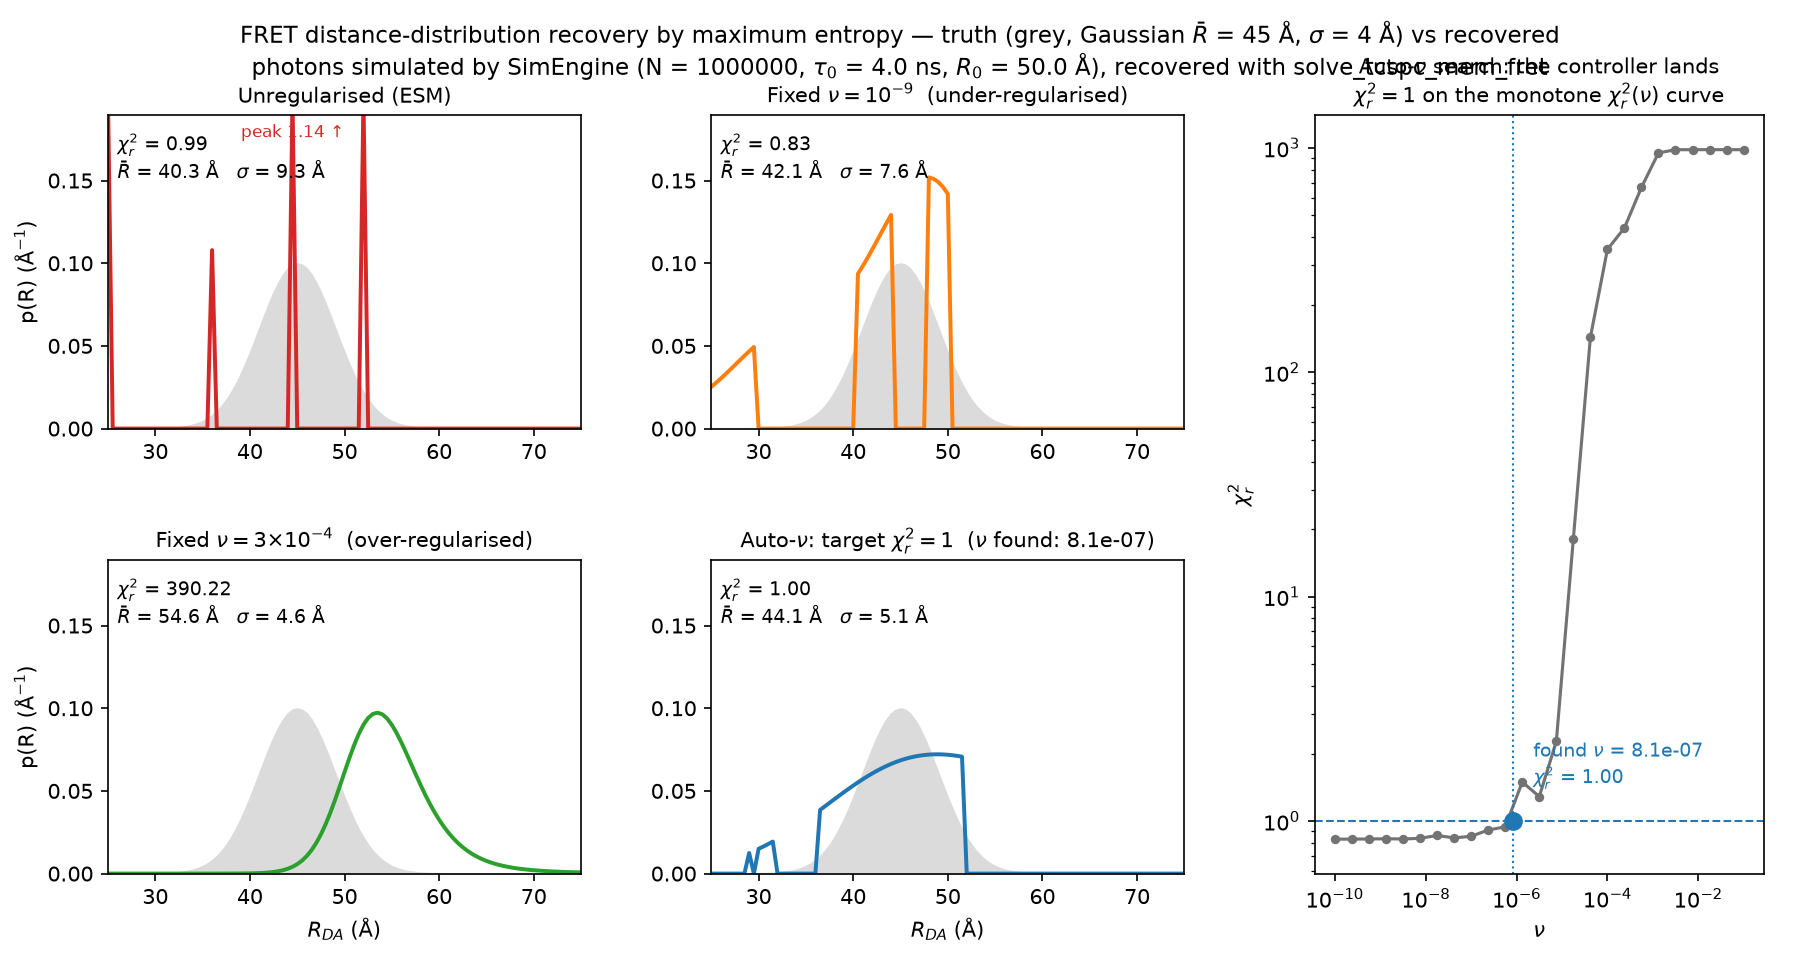
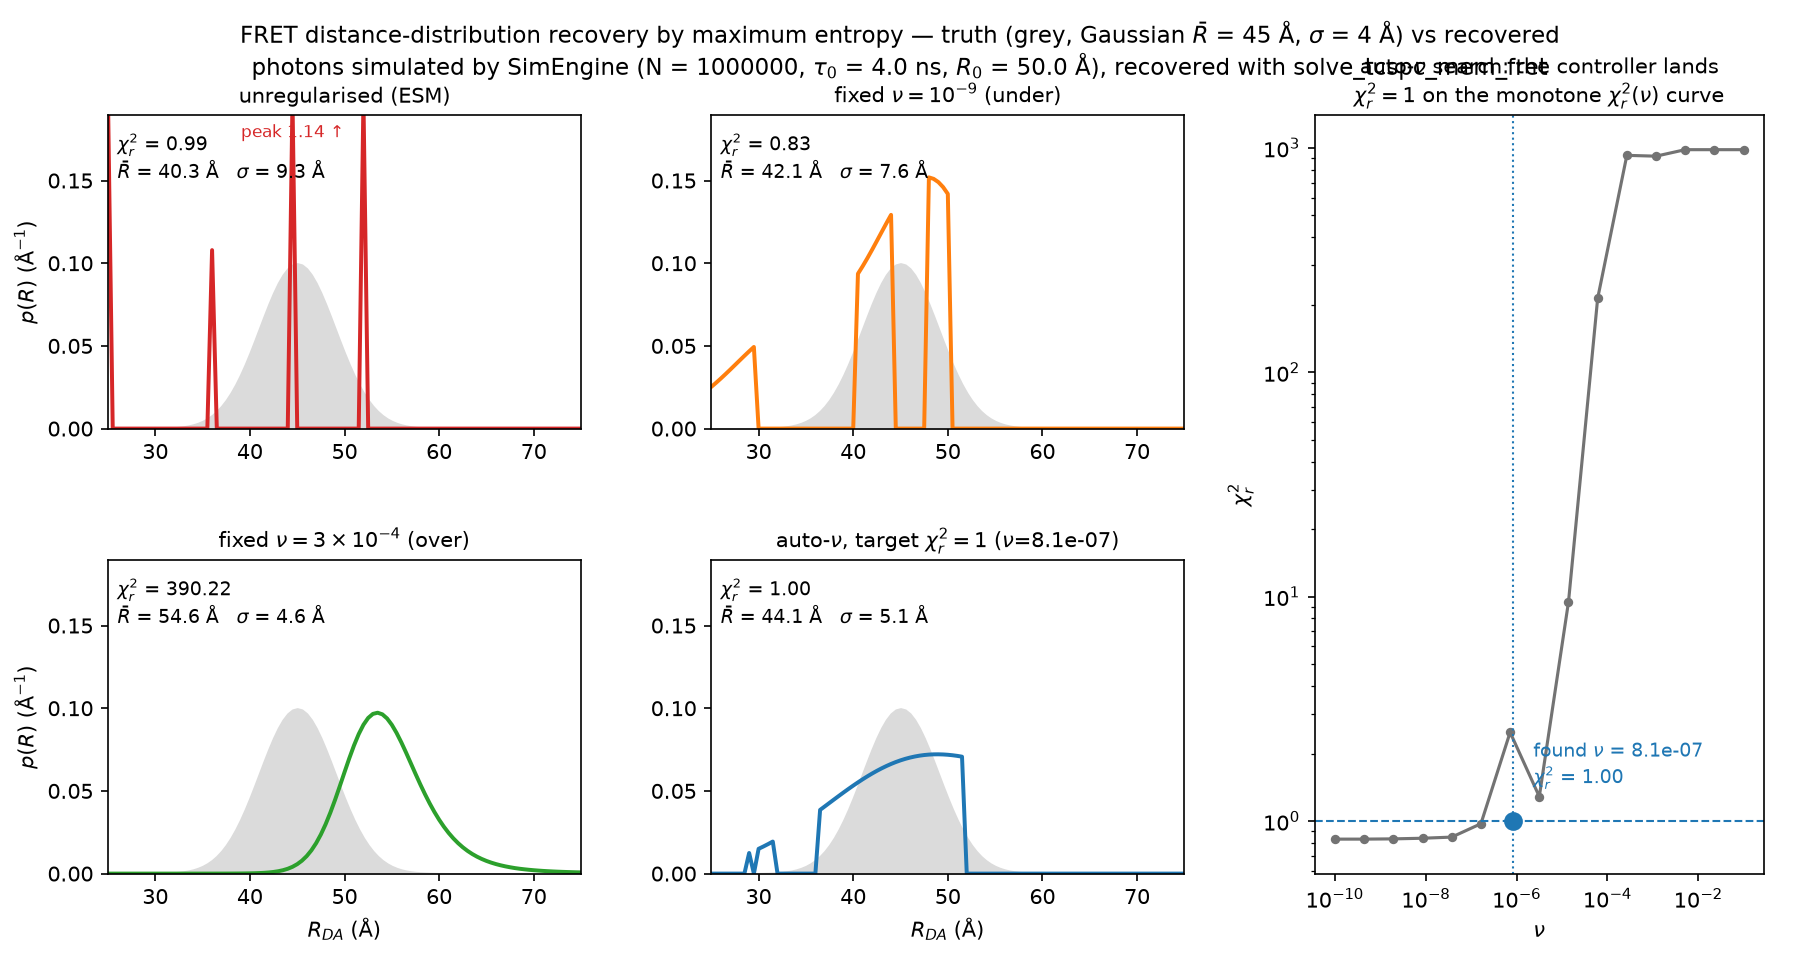
docs(decay): gallery example generating the MaxEnt FRET recovery figure
The figure PNG was committed without its generator (it lived only in a
session scratchpad under /private/tmp, which is wiped). The generator is
now a sphinx-gallery example with fixed seeds -- same fixture as the
steep-FRET regression test (1e6 photons, Gaussian distance truth
45/4 A, 100-point grid), printing the converged nu and chi-square and
annotating mean/sd per panel so the figure doubles as the record of the
measurement. Committed PNG regenerated from this one script: one
generator, no drift between the two. ~50 s end to end.

diff --git a/examples/fluorescence_decay/plot_maxent_fret_recovery.py b/examples/fluorescence_decay/plot_maxent_fret_recovery.py
@@ -1,0 +1,178 @@
+r"""
+=====================================================
+Maximum-entropy FRET distance recovery, and picking nu
+=====================================================
+
+Recover a FRET distance distribution ``p(R_DA)`` from a simulated TCSPC
+decay with ``solve_tcspc_mem_fret``, and compare three ways of choosing the
+entropy weight nu: deliberately under-regularised, deliberately
+over-regularised, and the opt-in "historic MaxEnt" mode that finds nu
+automatically by targeting a reduced chi-square of 1.
+
+The lesson the figure encodes, visible in the panels: the *wrong*
+regularisation fits the data better than the truth does. At tiny nu the
+distribution collapses into sharp spikes and chi-square drops *below* 1 --
+that is not a better answer, it is the classic maximum-entropy failure mode.
+At large nu the fit is pulled toward the flat prior and smeared. The
+auto-nu search sits between the two and recovers both the centre and the
+width of the true distribution.
+
+Everything here is simulated: one million photons from ``SimEngine``, a
+Gaussian distance distribution (mean 45 A, sigma 4 A) as ground truth.
+
+.. note::
+   This example is the generator of ``doc/img/maxent_fret_distance_recovery.png``
+   used in the documentation, with fixed seeds so the figure is reproducible.
+"""
+
+import json
+
+import matplotlib.pyplot as plt
+import numpy as np
+
+import tttrlib
+
+
+# Ground truth: a Gaussian distance distribution turned into a lifetime
+# mixture via the Foerster rate at each distance.
+TAU0, R0 = 4.0, 50.0
+R_MEAN, R_SIGMA = 45.0, 4.0
+N_BINS, PERIOD = 1024, 25.6
+DT = PERIOD / N_BINS
+
+R_sim = np.linspace(28.0, 72.0, 45)
+w_sim = np.exp(-0.5 * ((R_sim - R_MEAN) / R_SIGMA) ** 2)
+w_sim /= w_sim.sum()
+tau_sim = 1.0 / (1.0 / TAU0 + (1.0 / TAU0) * (R0 / R_sim) ** 6)
+
+t = np.arange(N_BINS) * DT
+irf = np.exp(-0.5 * ((t - 2.0) / 0.3) ** 2)
+irf /= irf.sum()
+
+# Simulate. Background is zeroed: the simulator's unconfigured background is
+# a delta spike at micro-time 0, not a flat floor, and would bias any
+# distance recovery.
+cfg = json.loads(tttrlib.SimEngine.default_json())
+cfg["settings"].update(
+    n_ph_max=1_000_000, max_windows=10 ** 8,
+    n_microtime_channels=N_BINS, microtime_resolution=DT,
+    laser_period=PERIOD, seed_diffusion=7, seed_emission=8)
+cfg["background"] = [0.0, 0.0]
+cfg["species"][0]["decay"] = {
+    "lifetimes": tau_sim.tolist(), "amplitudes": w_sim.tolist(),
+    "dt": DT, "n_bins": N_BINS, "irf": irf.tolist()}
+engine = tttrlib.SimEngine.from_dict(cfg)
+engine.run()
+hist = np.bincount(
+    np.asarray(engine.photons()["micro_time"]),
+    minlength=N_BINS).astype(float)[:N_BINS]
+n_photons = hist.sum()
+print(f"simulated photons: {n_photons:.0f}")
+
+R_grid = np.arange(25.0, 75.01, 0.5)
+dR = R_grid[1] - R_grid[0]
+
+
+def solve(nu=1e-5, target=-1.0):
+    """One MEM solve on the shared histogram. ``target > 0`` switches on the
+    auto-nu search; the ``nu`` argument then only seeds it."""
+    return tttrlib.solve_tcspc_mem_fret(
+        hist.tolist(), irf.tolist(), DT, R_grid.tolist(), TAU0, R0,
+        [1.0, TAU0], 0.0, 0.0, 0.0, 0.0, 5, N_BINS - 1, 0.0,
+        irf_background=0.0, nu=nu, max_iter=500, target_chisq=target)
+
+
+res_auto = solve(target=1.0)
+res_under = solve(nu=1e-9)
+res_over = solve(nu=3e-4)
+print(f"auto-nu: converged={res_auto.target_chisq_converged} "
+      f"nu={res_auto.nu_used:.3e} chisq={res_auto.chisq:.4f}")
+
+
+def density(p):
+    p = np.asarray(p, float)
+    total = p.sum()
+    return p / (total * dR) if total > 0 else p
+
+
+def stats(p):
+    """Mean and standard deviation of the recovered distribution."""
+    p = np.asarray(p, float)
+    p = p / p.sum()
+    mean = float((p * R_grid).sum())
+    sd = float(np.sqrt((p * (R_grid - mean) ** 2).sum()))
+    return mean, sd
+
+
+truth = np.exp(-0.5 * ((R_grid - R_MEAN) / R_SIGMA) ** 2)
+truth /= truth.sum() * dR
+
+methods = [
+    ("unregularised (ESM)", density(res_under.p_esm),
+     stats(res_under.p_esm), res_under.chisq_esm, "tab:red"),
+    (r"fixed $\nu = 10^{-9}$ (under)", density(res_under.p),
+     stats(res_under.p), res_under.chisq, "tab:orange"),
+    (r"fixed $\nu = 3\times10^{-4}$ (over)", density(res_over.p),
+     stats(res_over.p), res_over.chisq, "tab:green"),
+    (rf"auto-$\nu$, target $\chi^2_r=1$ ($\nu$={res_auto.nu_used:.1e})",
+     density(res_auto.p), stats(res_auto.p), res_auto.chisq, "tab:blue"),
+]
+
+fig = plt.figure(figsize=(12, 6.4))
+gs = fig.add_gridspec(2, 3, width_ratios=[1, 1, 0.95],
+                      hspace=0.42, wspace=0.28,
+                      left=0.06, right=0.98, top=0.88, bottom=0.09)
+axes = [fig.add_subplot(gs[0, 0]), fig.add_subplot(gs[0, 1]),
+        fig.add_subplot(gs[1, 0]), fig.add_subplot(gs[1, 1])]
+ax_nu = fig.add_subplot(gs[:, 2])
+
+ymax = 1.9 * truth.max()
+for ax, (title, dens, (mean, sd), chi2, color) in zip(axes, methods):
+    ax.fill_between(R_grid, truth, color="0.86", zorder=0)
+    ax.plot(R_grid, np.minimum(dens, ymax * 1.05), color=color, lw=1.9)
+    ax.set_ylim(0, ymax)
+    ax.set_xlim(25, 75)
+    ax.set_title(title, fontsize=10)
+    peak = dens.max()
+    if peak > ymax:  # the under-regularised spikes run off-scale: say by how much
+        i_peak = int(np.argmax(dens))
+        ax.annotate(f"peak {peak:.2f} \u2191", (R_grid[i_peak], ymax * 0.93),
+                    fontsize=8, ha="center", color=color)
+    ax.text(0.02, 0.95,
+            f"$\\chi^2_r$ = {chi2:.2f}\n"
+            f"$\\bar{{R}}$ = {mean:.1f} \u00c5   $\\sigma$ = {sd:.1f} \u00c5",
+            transform=ax.transAxes, va="top", fontsize=9)
+for ax in axes[2:]:
+    ax.set_xlabel(r"$R_{DA}$ ($\mathrm{\AA}$)")
+for ax in (axes[0], axes[2]):
+    ax.set_ylabel(r"$p(R)$ ($\mathrm{\AA}^{-1}$)")
+
+# The mechanism panel: chi-square is monotone in nu, and the auto-nu search
+# lands where it crosses the target.
+nus = np.geomspace(1e-10, 1e-1, 15)
+chis = [solve(nu=float(nu)).chisq for nu in nus]
+ax_nu.semilogx(nus, chis, "o-", ms=3.5, color="0.45")
+ax_nu.axhline(1.0, color="tab:blue", ls="--", lw=1)
+ax_nu.axvline(res_auto.nu_used, color="tab:blue", ls=":", lw=1)
+ax_nu.plot([res_auto.nu_used], [res_auto.chisq], "o", color="tab:blue", ms=8)
+ax_nu.annotate(f"found $\\nu$ = {res_auto.nu_used:.1e}\n"
+               f"$\\chi^2_r$ = {res_auto.chisq:.2f}",
+               (res_auto.nu_used, res_auto.chisq),
+               textcoords="offset points", xytext=(10, 18), fontsize=9,
+               color="tab:blue")
+ax_nu.set_yscale("log")
+ax_nu.set_xlabel(r"$\nu$")
+ax_nu.set_ylabel(r"$\chi^2_r$")
+ax_nu.set_title("auto-$\\nu$ search: the controller lands\n"
+                "$\\chi^2_r = 1$ on the monotone $\\chi^2_r(\\nu)$ curve",
+                fontsize=10)
+
+fig.suptitle(
+    "FRET distance-distribution recovery by maximum entropy \u2014 "
+    f"truth (grey, Gaussian $\\bar{{R}}$ = {R_MEAN:.0f} \u00c5, "
+    f"$\\sigma$ = {R_SIGMA:.0f} \u00c5) vs recovered\n"
+    f"photons simulated by SimEngine (N = {n_photons:.0f}, "
+    f"$\\tau_0$ = {TAU0} ns, $R_0$ = {R0} \u00c5), "
+    "recovered with solve_tcspc_mem_fret",
+    fontsize=11)
+plt.show()

diff --git a/okf/prds/PRD-039-historic-maxent-target-chisq.md b/okf/prds/PRD-039-historic-maxent-target-chisq.md
@@ -168,7 +168,10 @@ nobody asked for that path. Same trailing-param pattern applies if wanted.
   100-point R grid, target 1.0 — converges to chisq 1.0000 in 157 QP steps
   (~4 s in C++); recovery mean 44.2 Å / sd 5.1 Å against truth 45/4, with
   bands wide enough to catch both classic MEM failure modes (spiky collapse,
-  over-regularised smear).
+  over-regularised smear). The same fixture drives the gallery example
+  `examples/fluorescence_decay/plot_maxent_fret_recovery.py` (fixed seeds),
+  which generates `doc/img/maxent_fret_distance_recovery.png` — the figure
+  showing all three regularisation regimes side by side.
 - **Monotonicity of chisq(nu)** asserted empirically through both public
   surfaces (`tcspc_run_mem` sweep; `decay_pattern_fit` kMaxEnt sweep).
 - **Both impossible-target directions degrade gracefully** (low → floor fit,

diff --git a/okf/log.md b/okf/log.md
@@ -28,7 +28,10 @@
   classic MEM failure modes), and `mem_dgrad`/`mem_entropy` were extracted
   as shared helpers so `run_mem` and the controller cannot drift on what
   the TEST quantity and S mean. Figure regenerated with the converged
-  solver: `doc/img/maxent_fret_distance_recovery.png`.
+  solver: `doc/img/maxent_fret_distance_recovery.png`; its permanent
+  generator is the gallery example
+  `examples/fluorescence_decay/plot_maxent_fret_recovery.py` (fixed seeds,
+  ~50 s end to end, prints the converged nu/chisq).
 
 ## 2026-08-13 (25th entry)
 
